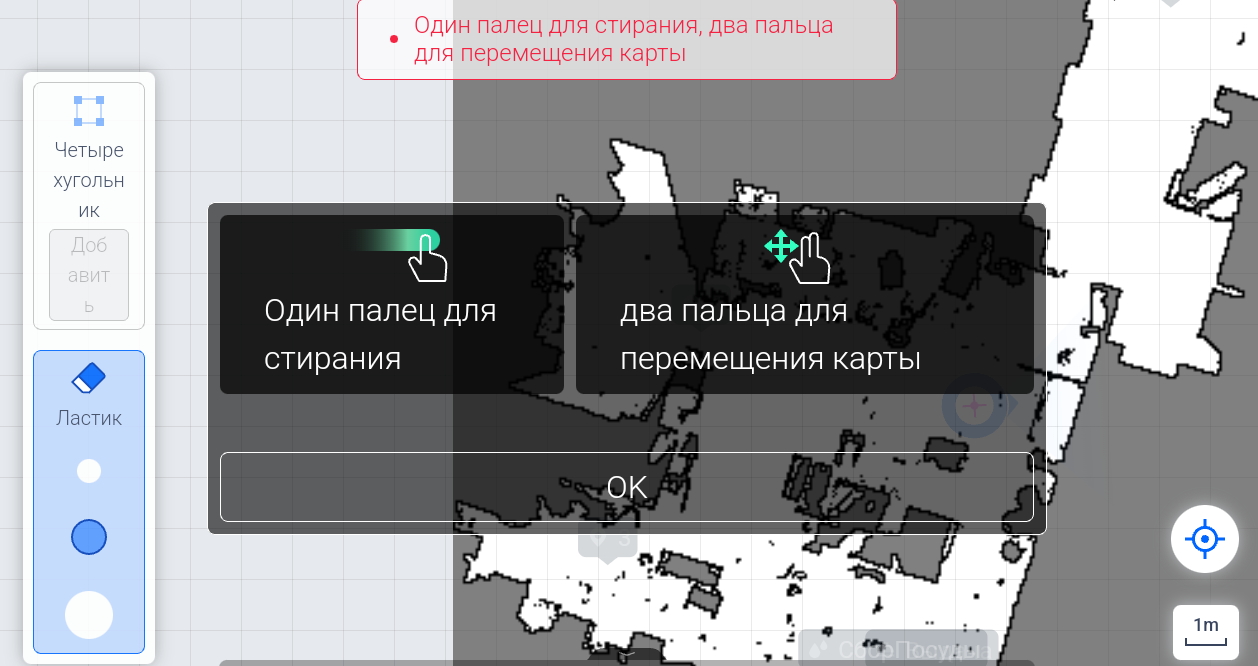
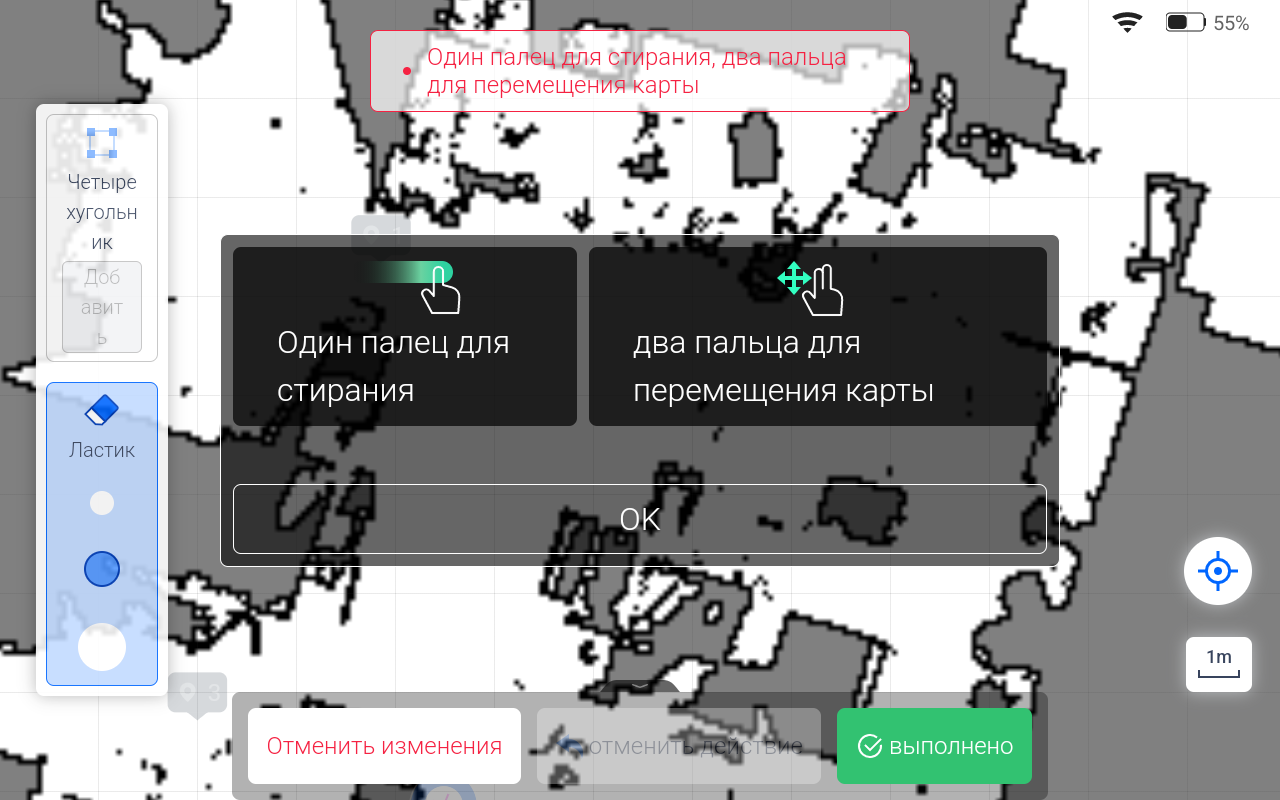
Правки по основному разделу быстрого страрта

diff --git a/docs/Pudu/BellaBot Pro/bellapro_quick_start.md b/docs/Pudu/BellaBot Pro/bellapro_quick_start.md
@@ -48,7 +48,6 @@ nav_order: 1
 *   **Уклон:** Максимально допустимый уклон для безопасного движения **не более 5% (~3°)**. Больший уклон может привести к опрокидыванию или проливу содержимого подносов.
 *   **Материалы:** Робот адаптирован для работы на большинстве типов покрытий: керамическая плитка, laminate, наливной пол, терраццо, коротковорсовый ковролин (высота ворса **не более 10 мм**), резиновые покрытия.
 *   **Зазоры:** Глубина зазоров (например, между плиткой и лифтом) не должна превышать **30 мм**, а ширина — **50 мм**.
-*   **Однородность:** На покрытии должны отсутствовать ямы, 
 
 ![Требования к дорожному покрытию](/assets/images/Pudu_floor_req.png){: width="700px" height="250px" style="display: block"}
 
@@ -115,7 +114,7 @@ nav_order: 1
 Ознакомьтесь с рекомендациями и мерами предостарожности, нажмите **[немедленно начать]** для продолжения
 ![Предупреждения перед картированием](/assets/images/BellaBotPro/pudu_map_alarms.png){:.image style="display: block; margin: 20px auto"}
 Запомните ориентацию и точку, где начиналось составление карты и медленно толкайте робота по всей территории, сканируя помещения, где робот будет задействован. Перемещайте робота медленно, если скорость высока робот предупредит используя уведомления на экране и голосовое оповещение.
-![Сканирование территории](/assets/images/BellaBotPro/pudu_map_scan.png){:.image style="display: block; margin: 20px auto"}!!!!!!!!!!!!!!!!1Сделать новый скриншот
+![Сканирование территории](/assets/images/BellaBotPro/pudu_map_scan.png){:.image style="display: block; margin: 20px auto"}
 	
 {: .warning}
 Для создания корректной карты робота **нужно толкать(не тянуть)**, во время построения нельзя допускать пробуксовки и отрыва колес от земли. Если такое произошло, процесс создания карты нужно начинать сначала.
@@ -164,17 +163,26 @@ nav_order: 1
 ![Устранение помех](/assets/images/BellaBotPro/pudu_map_edittool.png){:.image style="display: block; margin: 20px auto"}
 Следуйте инструкции на роботе, чтобы удалить ошибочно отсканиранные препятсвия
 ![Обзор инструмента Ластик](/assets/images/BellaBotPro/pudu_erasetool_preview.png){:.image style="display: block; margin: 20px auto"}
-Нажмите **[Выполнено]**, чтобы сохранить изменения или **[Отменить изменения]**, для отклонения, например если было удалено лишнее.
+Нажмите **[Выполнено]**, чтобы сохранить изменения или **[Отменить изменения]**, например если было удалено лишнее.
 
 Для безопасности робот должен обходить участки с риском падения или столкновения: лестницы, лифты, подъемники, мебель с выступающими углами или краями. Такие места необходимо отметить на карте.\
-Используйте иструмент **[Площади]** чтобы нарисовать виртуальные стены, зоны с риском падения, особые зоны ограничения RGBD, а так же установите ограничения скорости там, где это необходимо
-![Инструмент для виртуальных стен и разметки опасных зон](/assets/images/BellaBotPro/pudu_map_zones.png){:.image style="display: block; margin: 20px auto"}!!!!!!!!!!!!!!!!!!!!!!!!!!!
+Используйте иструмент **[Площади]** на панели редактирования, чтобы нарисовать виртуальные стены, зоны с риском падения, особые зоны ограничения RGBD, а так же установите ограничения скорости там, где это необходимо
+![Инструмент для виртуальных стен и разметки опасных зон](/assets/images/BellaBotPro/pudu_map_zonetools.png){:.image style="display: block; margin: 20px auto"}
+Нажмите **[Добавить область]** и выберите следующий тип особых зон
+![Разметка площадей](/assets/images/BellaBotPro/pudu_map_zones.png){:.image style="display: block; margin: 20px auto"}
+**Виртуальная стена** - на  карте отмечается отрезок, который роботом будет воспринят как физическая стена, робот не будет пересекать эту линию.\
+**Особая зона** - зона с измененным алгоритмом определения препятствий. Такой зоной следует отмечать места около лестниц и элеваторов, столешницы с большим вылетом и пороги.  \
+**Специальная зона RGBD** - специализированная особая зона, в которой робот не будет реагировать на препятсвия с помощью RGBD камер спереди и сбоку, а полагаться только на LiDAR.\
+**Без объезда** - область на карте, определяющая поведение робота, в случае возникновения препятсвия при движении от точки к точке по топологическому маршруту робот будет сам ожидать, пока путь не освободится и не будет пытаться перестроить путь для объезда препятсвия на пути.\
+**Зона с ограничением скорости** - это область, при въезде в которую робот автоматически снижает свою скорость до заданного значения.\
+**Зона исключения** - это область в виде замкнутой фигуры из **виртуальных стен**, которая исключает въезд по периметру.
+
 
 ### Смена точки старта
 
 По умолчанию точка начала составления карты и ориентация на этой точке являются *Точкой загрузки*, если необходимо перенести точку запуска, то необходимо отредактировать *уже сохраненную карту*.
 Перейдите в меню выбора карт нажав редактировать карт
-![Редактирование карт в меню](/assets/images/BellaBotPro/pudu_menu_mapedit.png)
+![Редактирование карт в меню](/assets/images/BellaBotPro/pudu_menu2edit.png)
 Нажмите на зеленый значек чтобы перейти к редактированию.
 ![Редактирование](/assets/images/BellaBotPro/pudu_map_select.png){:.image style="display: block; margin: 20px auto"}
 Если робот попросит обновить локализацию, для этого необходимо поставить его в место где составление карты начиналось и нажать **[Обновить положение]**
@@ -249,6 +257,18 @@ nav_order: 1
 Для скачивания приложения отсканируйте QR-код c экрана робота, *Развернув* настройку **[Онлайн вызов через сеть]** или с картинки ниже
 ![Ссылка PUDULink](/assets/images/BellaBotPro/pudu_func_linkAPP.png){:.image style="display: block; margin: 20px auto"}
 Логином и паролем являются данные для входа на бизнес платформу.
+
+### Безопасность
+
+Для ограничения взаимодействия посторонних людей при работе робота в общественных местах на операционном экране предусмотрена возможность установить пароль блокировки на необходимую степень, чтобы не испортить опыт использования робота посетителем. Следуйте руководству:
+
+1.Перейдите в **[Настройки]** из Главного меню приложения
+![Основное меню](/assets/images/BellaBotPro/pudu_menu.png){:.image style="display: block; margin: 20px auto"}
+2. В меню навигации по разделам найти раздел - **[Пароль и безопасность]**
+![Безопасность робота в меню](/assets/images/BellaBotPro/pudu_menu2sec.png){:.image style="display: block; margin: 20px auto"}
+3. Переключите блокировку экрана на необходимые функции 
+![Установка пароля](/assets/images/BellaBotPro/pudu_sec_password.png){:.image style="display: block; margin: 20px auto"}
+По умолчанию **пароль 0000**, для изменения нажмите **[Изменить пароль]** в данном блоке настроек.
 
 ### Настройка взаимодействия посетителей с роботом
 
@@ -358,11 +378,11 @@ nav_order: 1
 2. В меню навигации по разделам найти раздел - **[Функции робота]** и перейти в **[Настройку модулей]**
 ![Настройки модулей робота](/assets/images/BellaBotPro/pudu_func_menu2module.png){:.image style="display: block; margin: 20px auto"}
 3. Перейти в **[ОПЦИИ]** режима *Утилизация*
-![Конфигурация сбора](/assets/images/BellaBotPro/pudu_recycle_configure.png){:.image style="display: block; margin: 20px auto"}(Добавить Картинку с обведенным ОПЦИИ Утилизация)
+![Конфигурация сбора](/assets/images/BellaBotPro/pudu_recycle_configure.png){:.image style="display: block; margin: 20px auto"}
 Устанавливается поведение на точках сбора и утилизации, скорость движения, а так же голосовые функции для этого режима.
 
 ### Сопровождение
 
-**Сопровождение и приветсвие** - это режим, который подразумевает встречу, привлечение и приветсвие гостей и посетителей. Робот стоит на заданной точке, откуда также может помочь в рассадке или сопровождении посетителей до точки. Требует обязательного добавления специальной точки на карте: *Точка приветсвия*
+**Сопровождение и приветствие** - это режим, который подразумевает встречу, привлечение и приветствие гостей и посетителей. Робот стоит на заданной точке, откуда также может помочь в рассадке или сопровождении посетителей до точки. Требует обязательного добавления специальной точки на карте: *Точка приветствия*
 
 ---
